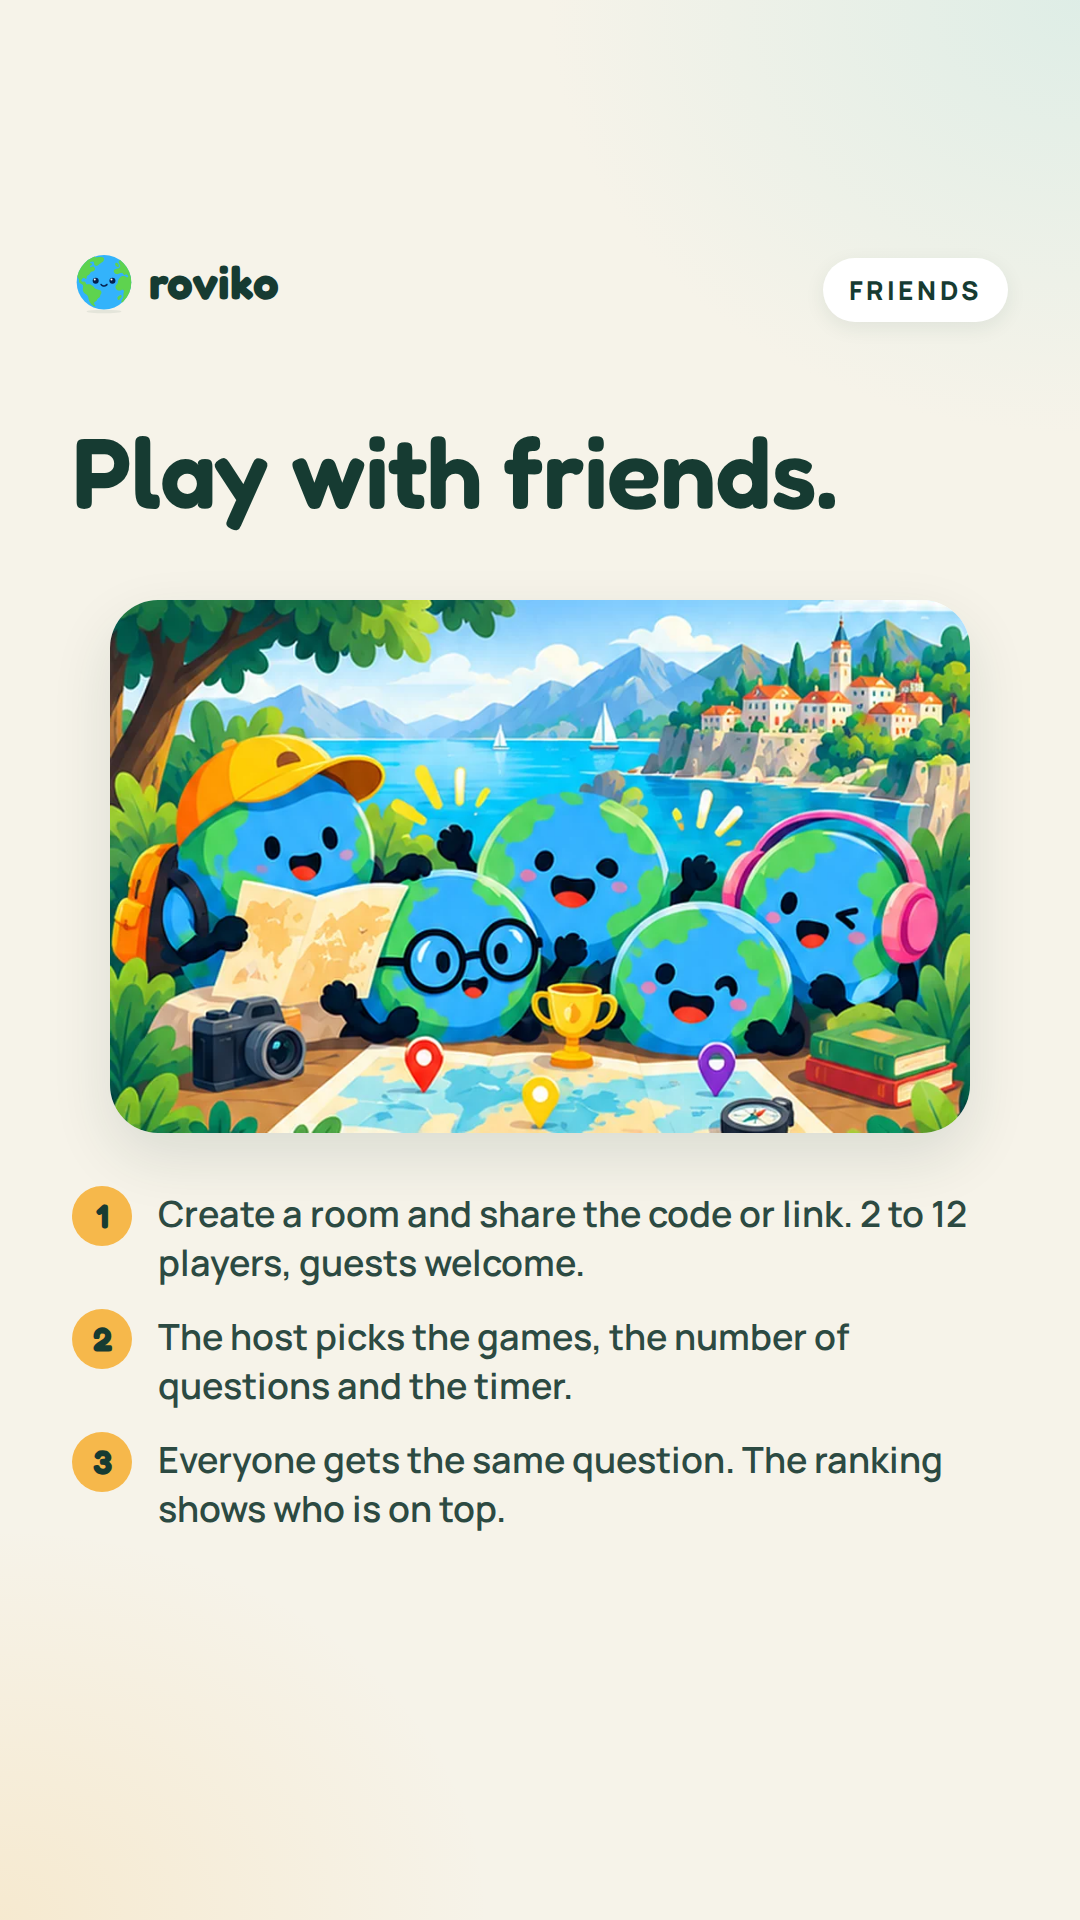
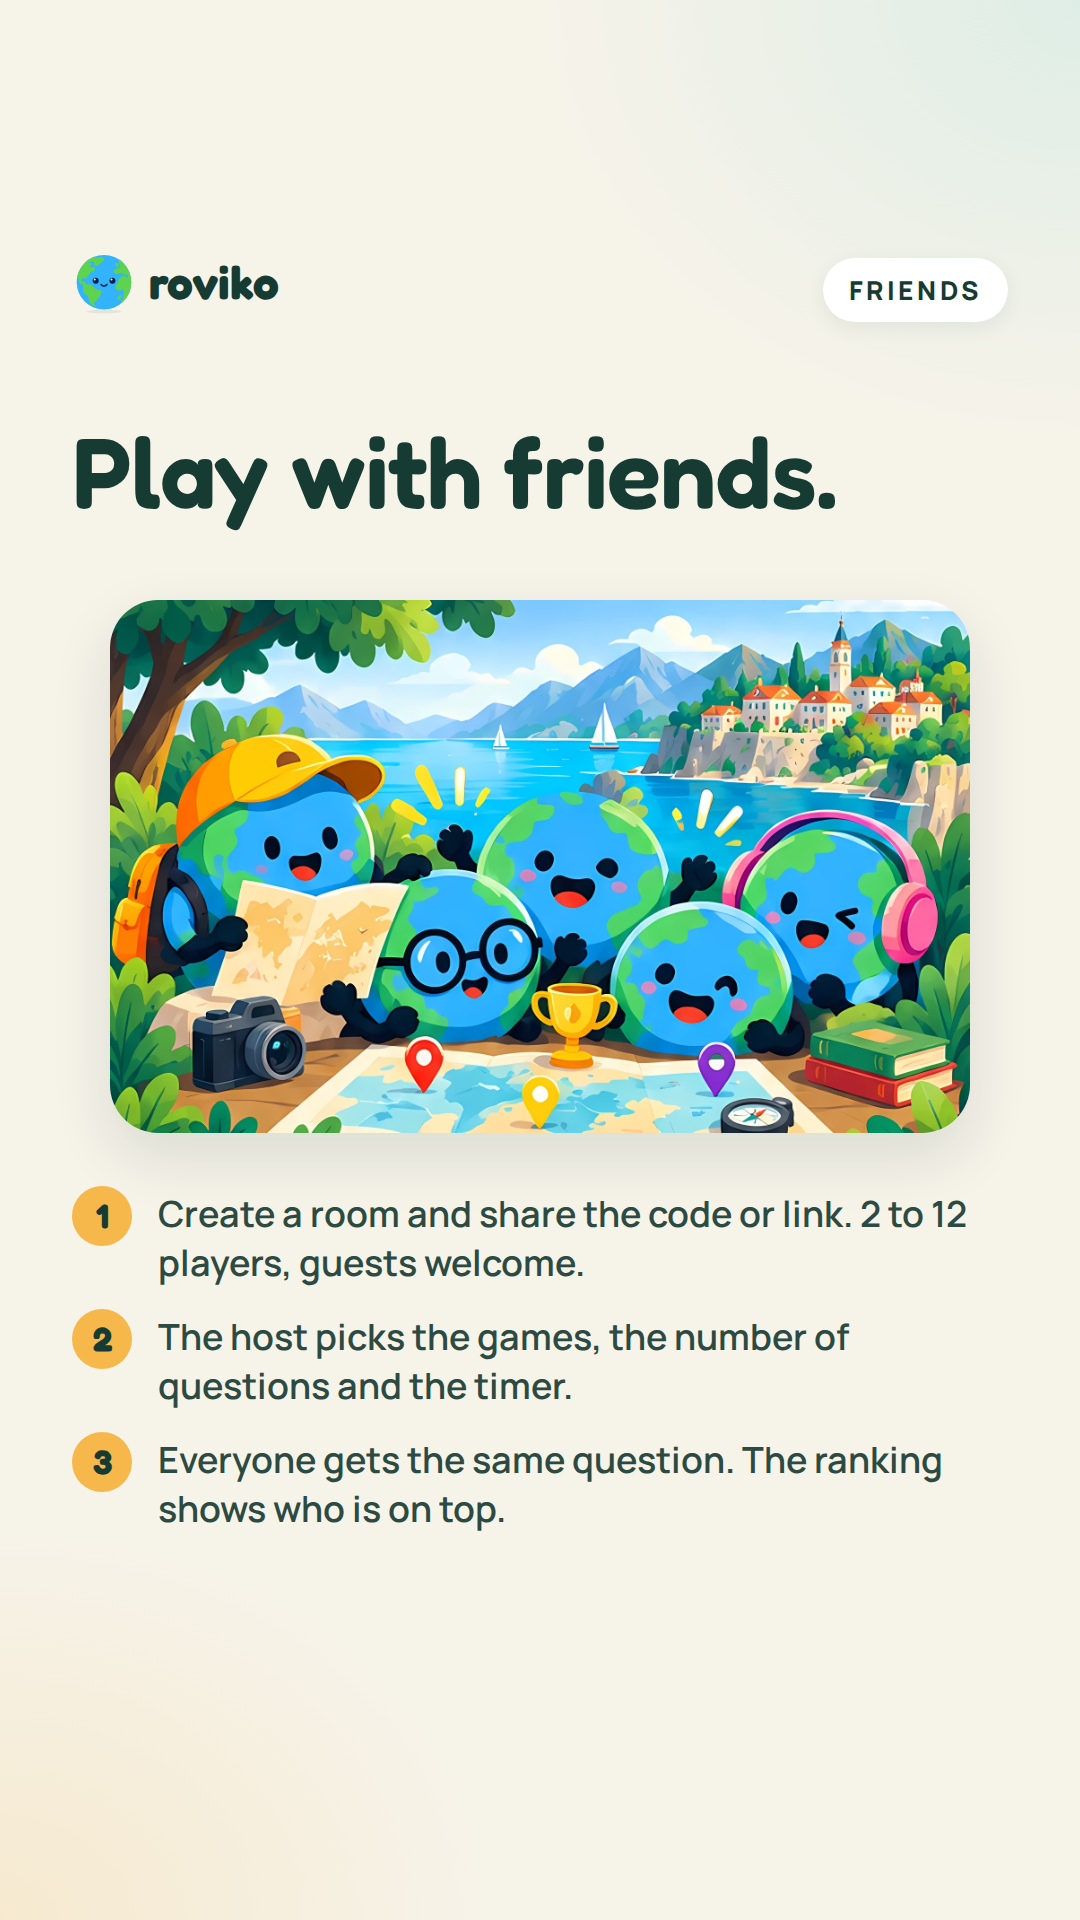
Sharpen Roviko social illustrations and re-render all images
The brand-kit illustrations (626-960 px) looked soft on 1080 px slides and
stories. They are now upscaled 4x with Real-ESRGAN (anime model, CPU) and
kept at 2x as WebP; every feed slide, story and X image is re-rendered.

Claude-Session: https://claude.ai/code/session_01SfFHtYc2VFGvwAVy25rhvs

Changed region(s): [[0.55, 0.375, 0.6111, 0.4062], [0.7639, 0.4062, 0.7944, 0.4375], [0.3972, 0.4062, 0.4278, 0.4375]]

diff --git a/social/roviko-posts/build/slides.py b/social/roviko-posts/build/slides.py
@@ -91,7 +91,7 @@ def card(inner, style=''):
     return f'<div class="card" style="{style}">{inner}</div>'
 
 def art(name, style=''):
-    return f'<img src="{A}art/{name}.png" style="display:block;{style}">'
+    return f'<img src="{A}art/{name}.webp" style="display:block;{style}">'
 
 # ---------------------------------------------------------------- slides
 

diff --git a/social/roviko-posts/README.md b/social/roviko-posts/README.md
@@ -5,7 +5,7 @@ Visuals for the first nine Roviko posts. They are built from the brand kit (`Rov
 - Overview of all slides: `overview.png`.
 - Format: **1080 × 1350 px (4:5)**, PNG, no metadata. Carousels are numbered `01.png`, `02.png`, and so on, in posting order.
 - Style: cream `#F6F3E9`, forest green `#163B32`, Roviko green `#1F806B`, mint `#DDEDE6`, gold `#F6B84B`. Fredoka for headings, Manrope for body text. The globe mascot uses the site's own moods (`Mascot.tsx`).
-- Art: the illustrations come from the zip (`assets/art/`). The mascot is the vector logo (`assets/roviko-globe.svg`), so it stays sharp at any size. Country shapes come from `roviko/public/data/silhouettes.json`, the same data the site uses.
+- Art: the illustrations come from the zip. In `assets/art/` they are upscaled 4× with Real-ESRGAN (anime model) and stored at 2× as WebP, because the originals (626–960 px) looked soft on 1080 px slides. The mascot is the vector logo (`assets/roviko-globe.svg`), so it stays sharp at any size. Country shapes come from `roviko/public/data/silhouettes.json`, the same data the site uses.
 
 ## Regenerating
 
